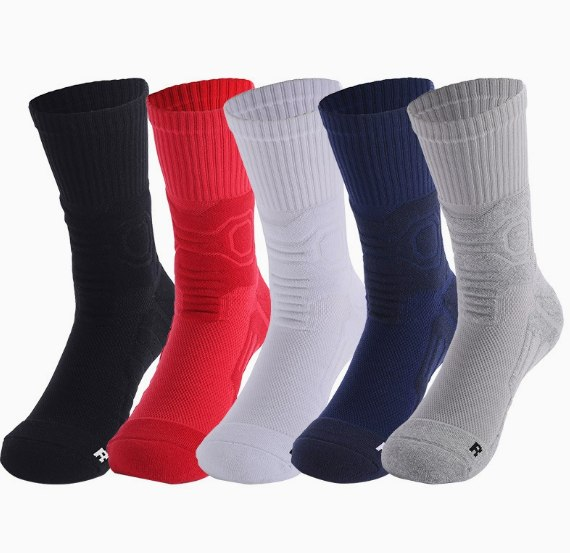
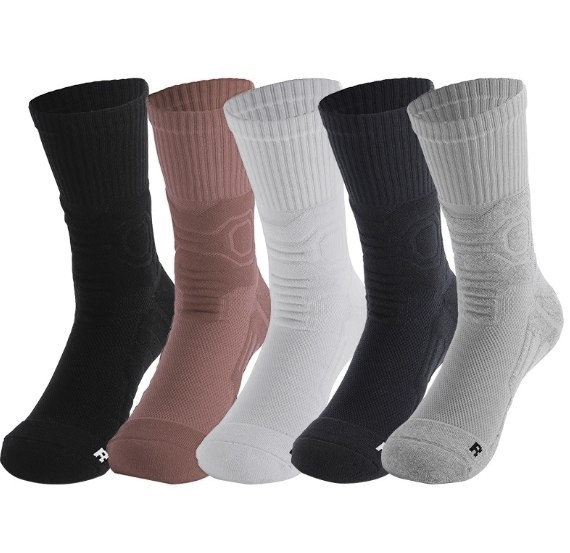
Premium goods cleanup: Race Vest + Crew Socks photos
사입처 원본 느낌의 굿즈 컷을 프리미엄 톤으로 보정:
- Race Vest: 마켓플레이스 썸네일/컷 콜라주 제거 → 클린 중립 배경 3:4 히어로 컷
- Crew Socks: 형광 5색 → 차분한 뉴트럴 팔레트(레드→클레이), 타 브랜드 로고 톤다운
- 삭스 컬러 표기 동기화

https://claude.ai/code/session_01Fb16Ynn1ki5iSUoVodsm4t

diff --git a/lib/products.ts b/lib/products.ts
@@ -615,7 +615,7 @@ export const PRODUCTS: Product[] = [
       "뒤꿈치·앞꿈치 쿠션 존",
       "통기 메쉬 발등",
       "미끄럼 방지 힐 탭",
-      "5컬러 (블랙/레드/화이트/네이비/그레이)",
+      "5컬러 (블랙/클레이/화이트/네이비/그레이)",
     ],
     sizes: ["M (240–260)", "L (260–280)"],
     color: "5 Colors",
@@ -644,7 +644,7 @@ export const PRODUCTS: Product[] = [
       ["소재", "면 70% / 폴리 25% / 스판 5%"],
       ["길이", "미들컷 (복사뼈 위 10cm)"],
       ["기능", "쿠션 존 / 아치 서포트 / 힐 탭"],
-      ["컬러", "블랙 / 레드 / 화이트 / 네이비 / 그레이"],
+      ["컬러", "블랙 / 클레이 / 화이트 / 네이비 / 그레이"],
       ["세탁", "세탁기 사용 가능"],
       ["제조", "기가글로벌스튜디오 / 한국"],
     ],